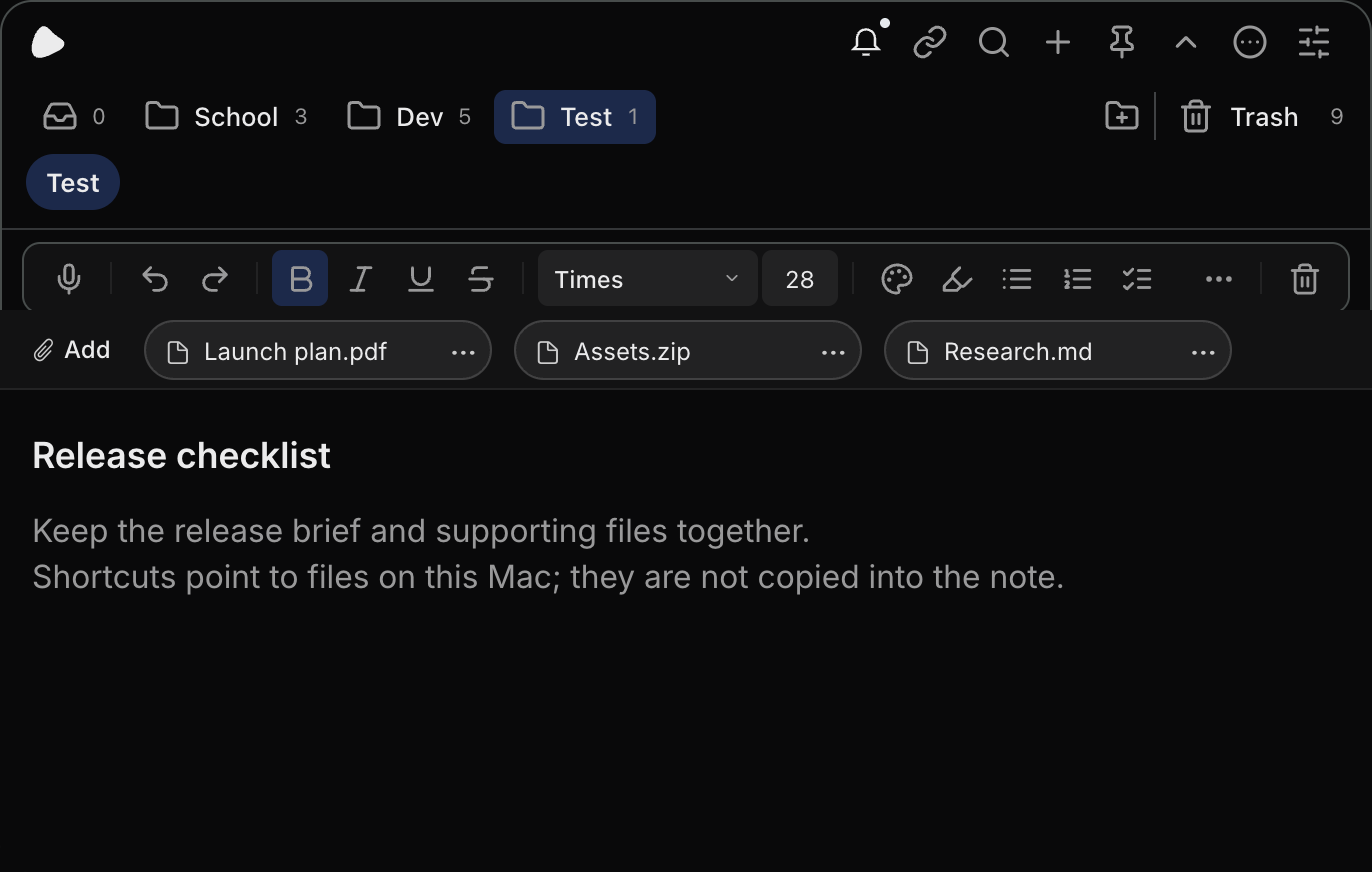
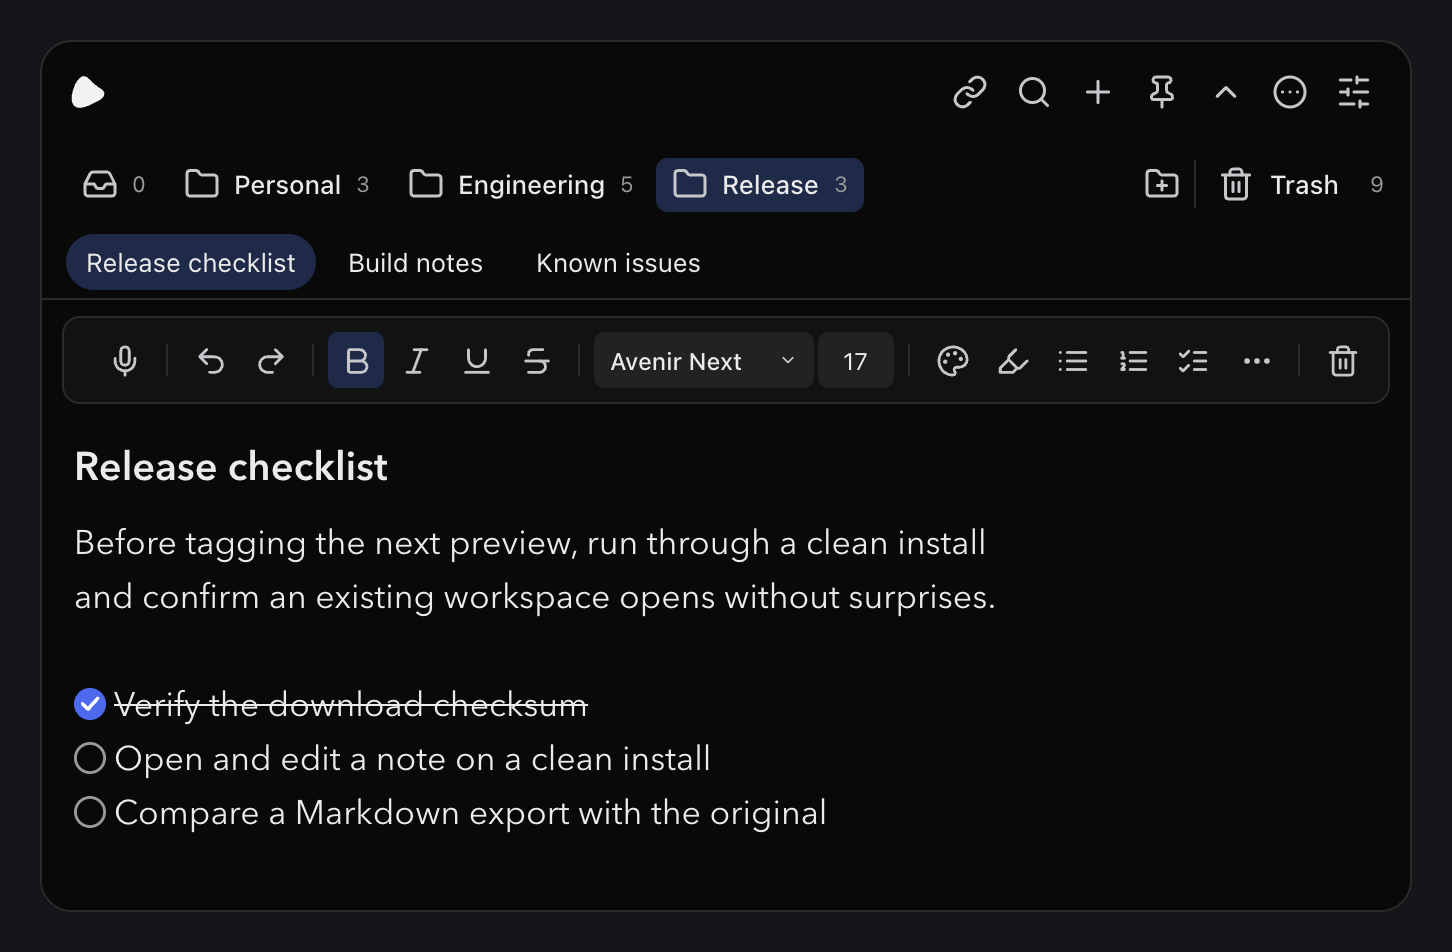
docs: update the Fleck Notes README preview

diff --git a/README.md b/README.md
@@ -88,11 +88,9 @@ for the current release gates.
 
 ## What is here
 
-![Fleck workspace mockup in Capy Dark Solid with folders, the formatting and dictation toolbar, and file shortcuts above a Release checklist note](docs/images/fleck-workspace.png)
+![Fleck Notes design preview in Capy Dark showing folders, note tabs, the formatting toolbar, and a release checklist.](docs/images/fleck-workspace.png)
 
-Capy Dark Solid design mockup with a sample note and file shortcuts. The
-Release checklist shows where you write, format, and dictate; file shortcuts
-open local references without importing them into the note.
+Fleck Notes design preview, rendered from Paper.
 
 The ordinary build from public `main` contains:
 
